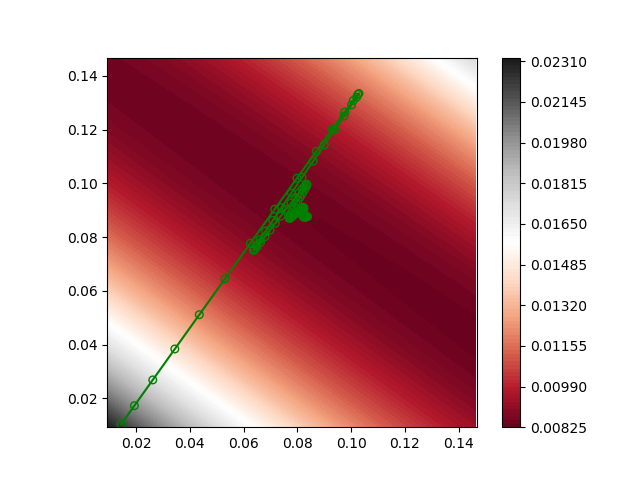
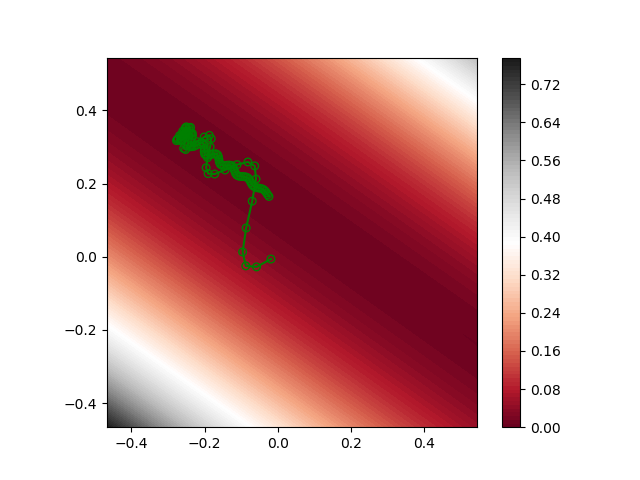
change plotting

diff --git a/plot.py b/plot.py
@@ -60,7 +60,7 @@ def main():
         # # plot level set and trajectory for SGD
         # W = 0.5 * np.eye(2)
         # Y = 0.5 * np.ones(2)
-    optimizer = 'Momentum'
+    optimizer = 'L2L'
     for prob_idx in range(prob_num):
         W = problems_w[prob_idx]
         Y = problems_b[prob_idx]
@@ -71,8 +71,12 @@ def main():
         miny = np.min(x[optimizer][prob_idx][:, 1])
         maxx = np.max(x[optimizer][prob_idx][:, 0])
         maxy = np.max(x[optimizer][prob_idx][:, 1])
-        x1 = np.arange(0.9 * min(minx, miny), 1.1 * max(maxx, maxy), delta)
-        x2 = np.arange(0.9 * min(minx, miny), 1.1 * max(maxx, maxy), delta)
+        min_plot = min(minx, miny)
+        max_plot = max(maxx, maxy)
+        t_min = min_plot - 0.3 * (max_plot - min_plot)
+        t_max = max_plot + 0.3 * (max_plot - min_plot)
+        x1 = np.arange(t_min, t_max, delta)
+        x2 = np.arange(t_min, t_max, delta)
         X1, X2 = np.meshgrid(x1, x2)
         F = A[0, 0] * X1 ** 2 + A[1, 1] * X2 ** 2 + (A[0, 1] + A[1, 0]) * X1 * X2 - b[0] * X1 - b[1] * X2 + LA.norm(
             Y) ** 2
@@ -80,7 +84,7 @@ def main():
         plt.contourf(X1, X2, F, 100, cmap='RdGy')
         plt.colorbar()
         plt.axes().set_aspect('equal')
-        plt.axis([0.9 * min(minx, miny), 1.1 * max(maxx, maxy), 0.9 *min(minx, miny), 1.1 * max(maxx, maxy)])
+        plt.axis([t_min, t_max, t_min, t_max])
 
         plt.scatter(x[optimizer][prob_idx][:, 0], x[optimizer][prob_idx][:, 1], s=30, edgecolors='g', facecolors='none',
                     marker='o')
